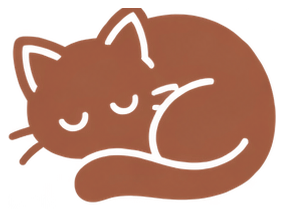
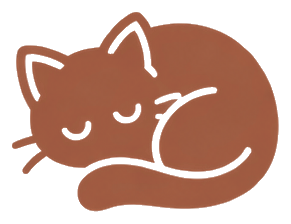
眠る猫のあしらいを素材シートから切り直し（耳先の欠けを解消）

diff --git a/assets/site.css b/assets/site.css
@@ -222,7 +222,7 @@ section.alt { background: var(--card); border-top: 1px solid var(--sep); border-
   display: block; background: var(--accent-deep);
   -webkit-mask: var(--img) center / contain no-repeat; mask: var(--img) center / contain no-repeat;
 }
-.tint.sleeping { --img: url(cat-sleeping.png); width: 220px; aspect-ratio: 284 / 217; margin: 0 auto; opacity: .85; }
+.tint.sleeping { --img: url(cat-sleeping.png?v=2); width: 220px; aspect-ratio: 291 / 224; margin: 0 auto; opacity: .85; }
 .tint.sitting  { --img: url(cat-sitting.png); }
 .tint.paw      { --img: url(paw-trail.png); width: 60px; aspect-ratio: 201 / 302; margin: 0 auto 14px; opacity: .55; }
 .screen .hero-photo .cat { background: #6f5a45; opacity: .9; width: 36%; right: 5%; bottom: 4%; aspect-ratio: 239 / 284; }

diff --git a/_layouts/default.html b/_layouts/default.html
@@ -10,7 +10,7 @@
 <link rel="preconnect" href="https://fonts.googleapis.com">
 <link rel="preconnect" href="https://fonts.gstatic.com" crossorigin>
 <link href="https://fonts.googleapis.com/css2?family=Noto+Sans+JP:wght@400;500&family=Noto+Serif+JP:wght@400;600&display=swap" rel="stylesheet">
-<link rel="stylesheet" href="{{ '/assets/site.css?v=6' | relative_url }}">
+<link rel="stylesheet" href="{{ '/assets/site.css?v=7' | relative_url }}">
 </head>
 <body>
 <header class="site-header">

diff --git a/index.html b/index.html
@@ -18,7 +18,7 @@
 <link rel="preconnect" href="https://fonts.googleapis.com">
 <link rel="preconnect" href="https://fonts.gstatic.com" crossorigin>
 <link href="https://fonts.googleapis.com/css2?family=Noto+Sans+JP:wght@400;500&family=Noto+Serif+JP:wght@400;600&display=swap" rel="stylesheet">
-<link rel="stylesheet" href="assets/site.css?v=6">
+<link rel="stylesheet" href="assets/site.css?v=7">
 </head>
 <body>
 
